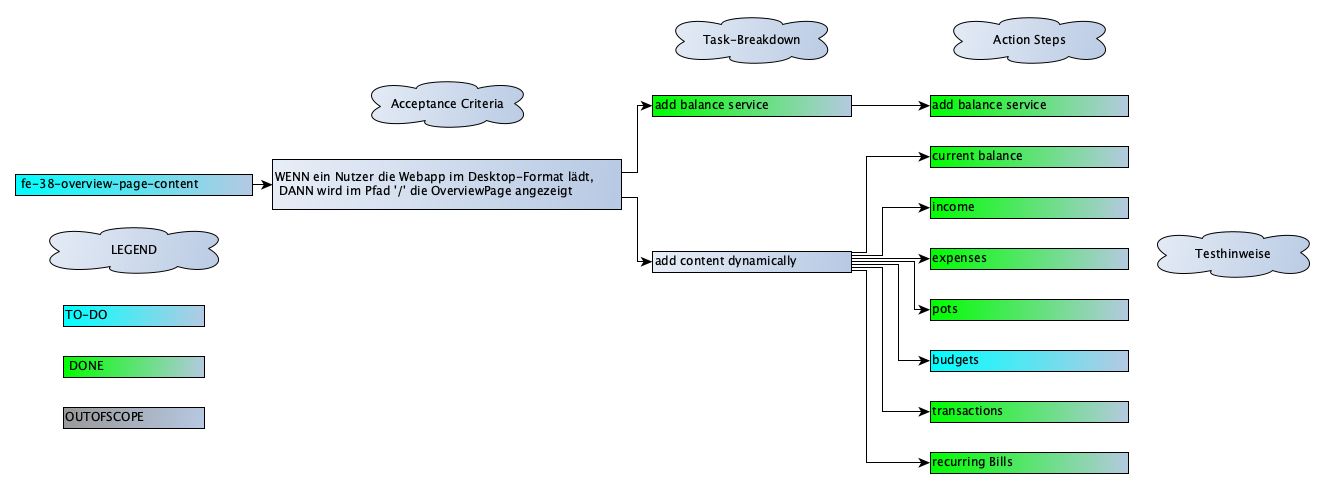
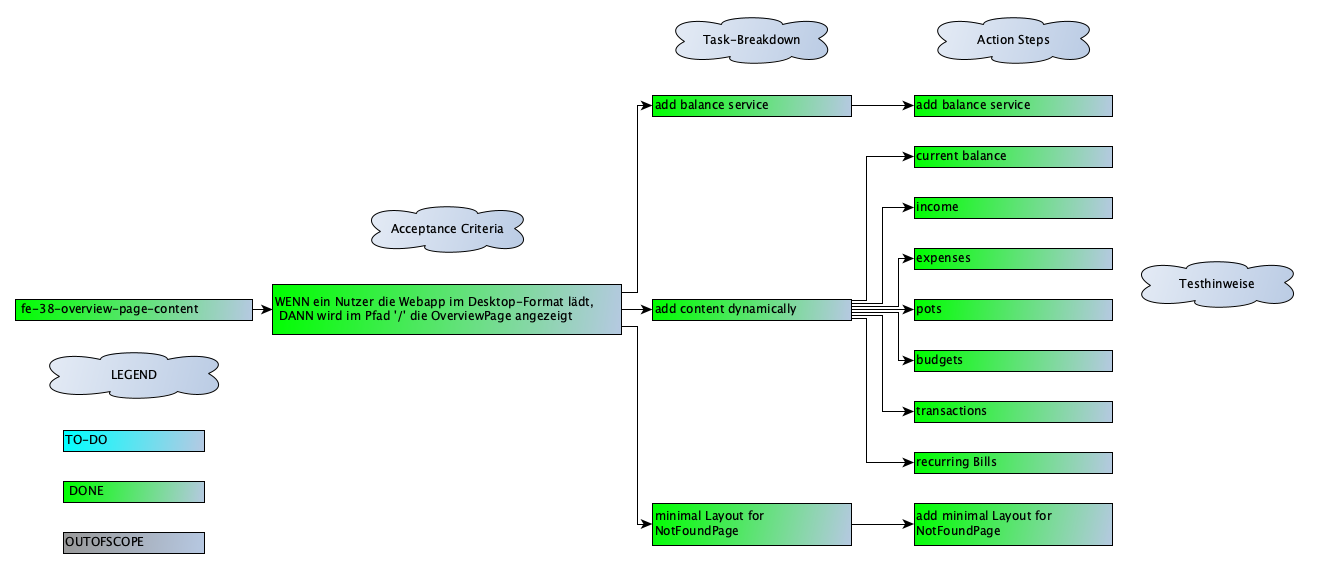
fe-38 add budget logic + minimal not found page

diff --git a/frontend/src/components/overview/budgets/OverviewBudgets.spec.tsx b/frontend/src/components/overview/budgets/OverviewBudgets.spec.tsx
@@ -1,12 +1,21 @@
 import { render, screen } from '@testing-library/react';
 import { OverviewBudgets } from './OverviewBudgets';
 import { MemoryRouter } from 'react-router-dom';
+import { mockedBudget, mockedBudgets6 } from '../../../fixtures/MockedBudgets';
+import { mockedTransactions } from '../../../fixtures/MockedTransactions';
 
 describe('OverviewBudgets', () => {
+  const budgets = mockedBudgets6;
+  const transactions = mockedTransactions;
+  const testProps = {
+    budgets,
+    transactions,
+  };
+
   it('renders div overviewBudgets', () => {
     const { container } = render(
       <MemoryRouter>
-        <OverviewBudgets />
+        <OverviewBudgets {...testProps} />
       </MemoryRouter>
     );
 
@@ -18,7 +27,7 @@ describe('OverviewBudgets', () => {
   it('renders react component OverviewHeader', () => {
     render(
       <MemoryRouter>
-        <OverviewBudgets />
+        <OverviewBudgets {...testProps} />
       </MemoryRouter>
     );
 
@@ -30,7 +39,7 @@ describe('OverviewBudgets', () => {
   it('renders div overviewBudgetsContent', () => {
     const { container } = render(
       <MemoryRouter>
-        <OverviewBudgets />
+        <OverviewBudgets {...testProps} />
       </MemoryRouter>
     );
 
@@ -42,7 +51,7 @@ describe('OverviewBudgets', () => {
   it('renders react component BudgetsDiagram', () => {
     render(
       <MemoryRouter>
-        <OverviewBudgets />
+        <OverviewBudgets {...testProps} />
       </MemoryRouter>
     );
 
@@ -54,7 +63,7 @@ describe('OverviewBudgets', () => {
   it('renders div overviewBudgetsValues', () => {
     const { container } = render(
       <MemoryRouter>
-        <OverviewBudgets />
+        <OverviewBudgets {...testProps} />
       </MemoryRouter>
     );
 
@@ -63,15 +72,27 @@ describe('OverviewBudgets', () => {
     expect(htmlElement).toBeInTheDocument();
   });
 
-  it('renders react component ValueBox 4 times', () => {
+  it('renders react component ValueBox max 4 times', () => {
     render(
       <MemoryRouter>
-        <OverviewBudgets />
+        <OverviewBudgets {...testProps} />
       </MemoryRouter>
     );
 
     const reactComponents = screen.getAllByTestId('value-box');
 
     expect(reactComponents).toHaveLength(4);
+  });
+
+  it('renders react component ValueBox only once if only 1 budget is passed', () => {
+    render(
+      <MemoryRouter>
+        <OverviewBudgets {...testProps} budgets={[mockedBudget]} />
+      </MemoryRouter>
+    );
+
+    const reactComponents = screen.getAllByTestId('value-box');
+
+    expect(reactComponents).toHaveLength(1);
   });
 });

diff --git a/frontend/src/components/overview/budgets/OverviewBudgets.tsx b/frontend/src/components/overview/budgets/OverviewBudgets.tsx
@@ -2,14 +2,18 @@ import './OverviewBudgets.scss';
 import { OverviewHeader } from '../OverviewHeader';
 import { ValueBox } from '../ValueBox';
 import { BudgetsDiagram } from '../../budgets/BudgetsDiagram';
-import { getBudgets } from '../../../globals/services/BudgetService';
-import { getTransactions } from '../../../globals/services/TransactionService';
 import { EPBudget } from '../../../model/entrypoints/EPBudget';
-import { EPTransaction } from '../../../model/entrypoints/EPTransaction';
+import { OverviewBudgetsProps } from '../../../model/props/OverviewBudgetsProps';
+import PropTypes from 'prop-types';
 
-export function OverviewBudgets() {
-  const budgets: EPBudget[] = getBudgets();
-  const transactions: EPTransaction[] = getTransactions();
+OverviewBudgets.propTypes = {
+  budgets: PropTypes.array.isRequired,
+  transactions: PropTypes.array.isRequired,
+};
+
+export function OverviewBudgets({ budgets, transactions }: OverviewBudgetsProps) {
+  budgets.sort((a, b) => b.maximum - a.maximum);
+  const budgetsHighestFour = budgets.slice(0, 4);
   return (
     <>
       <div className="overviewBudgets" data-testid="overview-budgets">
@@ -17,10 +21,14 @@ export function OverviewBudgets() {
         <div className="overviewBudgetsContent">
           <BudgetsDiagram budgets={budgets} transactions={transactions} />
           <div className="overviewBudgetsValues">
-            <ValueBox title="Entertainment" value={50.0} color="dark-green" />
-            <ValueBox title="Bills" value={750.0} color="light-blue" />
-            <ValueBox title="Dining Out" value={75.0} color="beige" />
-            <ValueBox title="Personal Care" value={100.0} color="dark-grey" />
+            {budgetsHighestFour.map((budget: EPBudget, index: number) => (
+              <ValueBox
+                key={index}
+                title={budget.category}
+                value={budget.maximum}
+                color={budget.color}
+              />
+            ))}
           </div>
         </div>
       </div>

diff --git a/frontend/src/fixtures/MockedBudgets.ts b/frontend/src/fixtures/MockedBudgets.ts
@@ -2,6 +2,52 @@ import { EPBudget } from '../model/entrypoints/EPBudget';
 
 export const mockedBudgets: EPBudget[] = [
   {
+    category: 'Dining Out',
+    categoryKey: 'diningout',
+    maximum: 300,
+    color: 'testColor',
+  },
+  {
+    category: 'Entertainment',
+    categoryKey: 'entertainment',
+    maximum: 100,
+    color: 'testColor',
+  },
+];
+
+export const mockedBudget: EPBudget = {
+  category: 'Entertainment',
+  categoryKey: 'entertainment',
+  maximum: 100,
+  color: 'testColor',
+};
+
+export const mockedBudgets6: EPBudget[] = [
+  {
+    category: 'Entertainment',
+    categoryKey: 'entertainment',
+    maximum: 100,
+    color: 'testColor',
+  },
+  {
+    category: 'Dining Out',
+    categoryKey: 'diningout',
+    maximum: 300,
+    color: 'testColor',
+  },
+  {
+    category: 'Entertainment',
+    categoryKey: 'entertainment',
+    maximum: 100,
+    color: 'testColor',
+  },
+  {
+    category: 'Dining Out',
+    categoryKey: 'diningout',
+    maximum: 300,
+    color: 'testColor',
+  },
+  {
     category: 'Entertainment',
     categoryKey: 'entertainment',
     maximum: 100,
@@ -14,10 +60,3 @@ export const mockedBudgets: EPBudget[] = [
     color: 'testColor',
   },
 ];
-
-export const mockedBudget: EPBudget = {
-  category: 'Entertainment',
-  categoryKey: 'entertainment',
-  maximum: 100,
-  color: 'testColor',
-};

diff --git a/frontend/src/components/budgets/BudgetDiagrammCard/BudgetsDiagramCard.spec.tsx b/frontend/src/components/budgets/BudgetDiagrammCard/BudgetsDiagramCard.spec.tsx
@@ -71,8 +71,8 @@ describe('BudgetsDiagramCard', () => {
   });
 
   it('calculates currentAmount with passed transactions', () => {
-    const categoryEntertainment = mockedBudgets.at(0)!.category;
-    const categoryDiningOut = mockedBudgets.at(1)!.category;
+    const categoryDiningOut = mockedBudgets.at(0)!.category;
+    const categoryEntertainment = mockedBudgets.at(1)!.category;
     render(<BudgetsDiagramCard {...testProps} />);
 
     const reactComponents = screen.getAllByTestId('budgets-diagramm-card-row');
@@ -81,11 +81,11 @@ describe('BudgetsDiagramCard', () => {
       const title = row.querySelector('.cardRowTitle')!.textContent;
       const currentAmount = row.querySelector('.cardRowTitleCurrentAmount')!.textContent;
       switch (title) {
-        case categoryEntertainment:
-          expect(currentAmount).toEqual(`$${currentAmountEntertainment}.00`);
-          break;
         case categoryDiningOut:
           expect(currentAmount).toEqual(`$${currentAmountDiningOut}.00`);
+          break;
+        case categoryEntertainment:
+          expect(currentAmount).toEqual(`$${currentAmountEntertainment}.00`);
           break;
       }
     });

diff --git a/frontend/src/components/overview/ValueBox.spec.tsx b/frontend/src/components/overview/ValueBox.spec.tsx
@@ -20,12 +20,13 @@ describe('ValueBox', () => {
     expect(htmlElement).toBeInTheDocument();
   });
 
-  it('renders div valueBoxBorder', () => {
+  it('renders div valueBoxBorder with passed color', () => {
     const { container } = render(<ValueBox {...testProps} />);
 
     const htmlElement = container.querySelector('.valueBoxBorder');
 
     expect(htmlElement).toBeInTheDocument();
+    expect(htmlElement).toHaveClass(color);
   });
 
   it('renders div valueBoxContent', () => {
@@ -42,7 +43,7 @@ describe('ValueBox', () => {
     const htmlElement = container.querySelector('.valueBoxContentTitle');
 
     expect(htmlElement).toBeInTheDocument();
-    expect(htmlElement).toHaveTextContent(title);
+    expect(htmlElement!.textContent).toEqual(title);
   });
 
   it('renders the label valueBoxContentValue with passed value', () => {
@@ -51,6 +52,6 @@ describe('ValueBox', () => {
     const htmlElement = container.querySelector('.valueBoxContentValue');
 
     expect(htmlElement).toBeInTheDocument();
-    expect(htmlElement).toHaveTextContent(`${value}`);
+    expect(htmlElement!.textContent).toEqual(`$${value}.00`);
   });
 });

diff --git a/frontend/src/Pages/OverviewPage.tsx b/frontend/src/Pages/OverviewPage.tsx
@@ -10,10 +10,13 @@ import { EPTransaction } from '../model/entrypoints/EPTransaction';
 import { BillsHelper } from '../globals/helper/BillsHelper';
 import { EPPot } from '../model/entrypoints/EPPot';
 import { getPots } from '../globals/services/PotService';
+import { EPBudget } from '../model/entrypoints/EPBudget';
+import { getBudgets } from '../globals/services/BudgetService';
 
 export function OverviewPage() {
   const pots: EPPot[] = getPots();
   const transactions: EPTransaction[] = getTransactions();
+  const budgets: EPBudget[] = getBudgets();
   const bills: EPTransaction[] = BillsHelper.getRecurringBillsFromTransactions();
   const today = new Date();
   return (
@@ -26,7 +29,7 @@ export function OverviewPage() {
           <OverviewTransactions transactions={transactions} />
         </div>
         <div className="overviewPageDetailsRight">
-          <OverviewBudgets />
+          <OverviewBudgets budgets={budgets} transactions={transactions} />
           <OverviewBills bills={bills} today={today} />
         </div>
       </div>

diff --git a/frontend/src/Pages/NoPage.spec.tsx b/frontend/src/Pages/NoPage.spec.tsx
@@ -9,4 +9,22 @@ describe('NoPage', () => {
 
     expect(htmlElement).toBeInTheDocument();
   });
+
+  it('renders h1 headline', () => {
+    const { container } = render(<NoPage />);
+
+    const htmlElement = container.querySelector('h1');
+
+    expect(htmlElement).toBeInTheDocument();
+    expect(htmlElement!.textContent).toEqual('404 - Page Not Found');
+  });
+
+  it('renders p msgNotFound', () => {
+    const { container } = render(<NoPage />);
+
+    const htmlElement = container.querySelector('p');
+
+    expect(htmlElement).toBeInTheDocument();
+    expect(htmlElement!.textContent).toEqual("The page you are looking for doesn't exist.");
+  });
 });

diff --git a/frontend/src/components/overview/pots/OverviewPots.tsx b/frontend/src/components/overview/pots/OverviewPots.tsx
@@ -2,8 +2,6 @@ import './OverviewPots.scss';
 import { OverviewHeader } from '../OverviewHeader';
 import { ValueBox } from '../ValueBox';
 import { PotsSummary } from './PotsSummary';
-import { getPots } from '../../../globals/services/PotService';
-import { EPPot } from '../../../model/entrypoints/EPPot';
 import { OverviewPotsProps } from '../../../model/props/OverviewPotsProps';
 import PropTypes from 'prop-types';
 

diff --git a/frontend/src/Pages/NoPage.tsx b/frontend/src/Pages/NoPage.tsx
@@ -1,10 +1,12 @@
 import './NoPage.scss';
 
 export function NoPage() {
+  const msgNotFound = "The page you are looking for doesn't exist.";
   return (
     <>
       <div className="noPage" data-testid="no-page">
         <h1>404 - Page Not Found</h1>
+        <p>{msgNotFound}</p>
       </div>
     </>
   );

diff --git a/frontend/src/model/props/OverviewBudgetsProps.ts b/frontend/src/model/props/OverviewBudgetsProps.ts
@@ -1,0 +1,7 @@
+import { EPBudget } from '../entrypoints/EPBudget';
+import { EPTransaction } from '../entrypoints/EPTransaction';
+
+export interface OverviewBudgetsProps {
+  budgets: EPBudget[];
+  transactions: EPTransaction[];
+}

diff --git a/frontend/src/components/budgets/BudgetDiagrammCard/BudgetsDiagramCard.tsx b/frontend/src/components/budgets/BudgetDiagrammCard/BudgetsDiagramCard.tsx
@@ -21,6 +21,7 @@ export function BudgetsDiagramCard({ budgets, transactions }: BudgetsDiagramCard
     spent = spent * -1;
     return spent;
   };
+  budgets.sort((a, b) => b.maximum - a.maximum);
 
   return (
     <>

diff --git a/frontend/src/Pages/NoPage.scss b/frontend/src/Pages/NoPage.scss
@@ -1,0 +1,3 @@
+.noPage {
+  padding: 32px 40px;
+}
